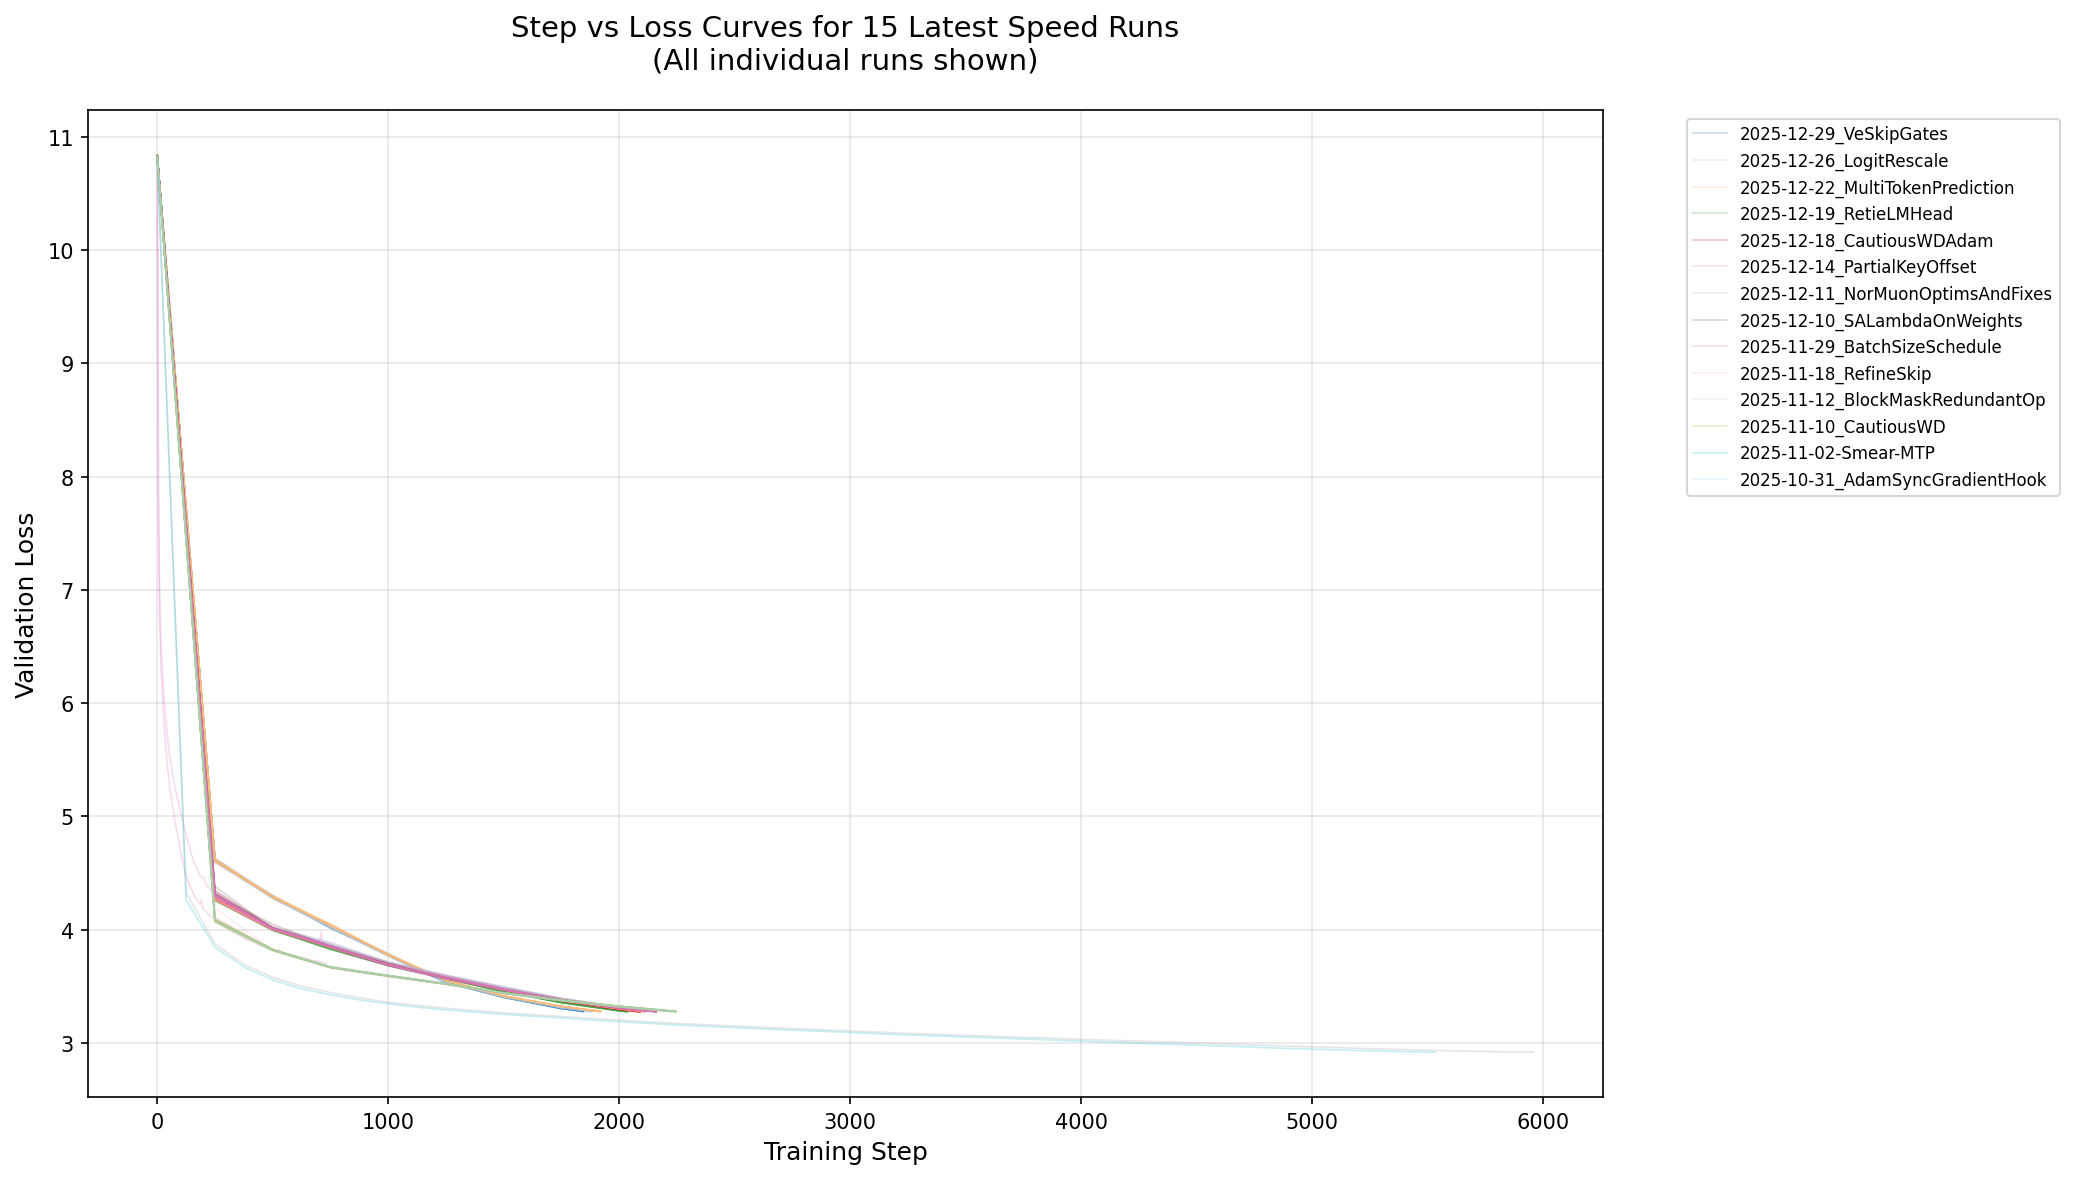
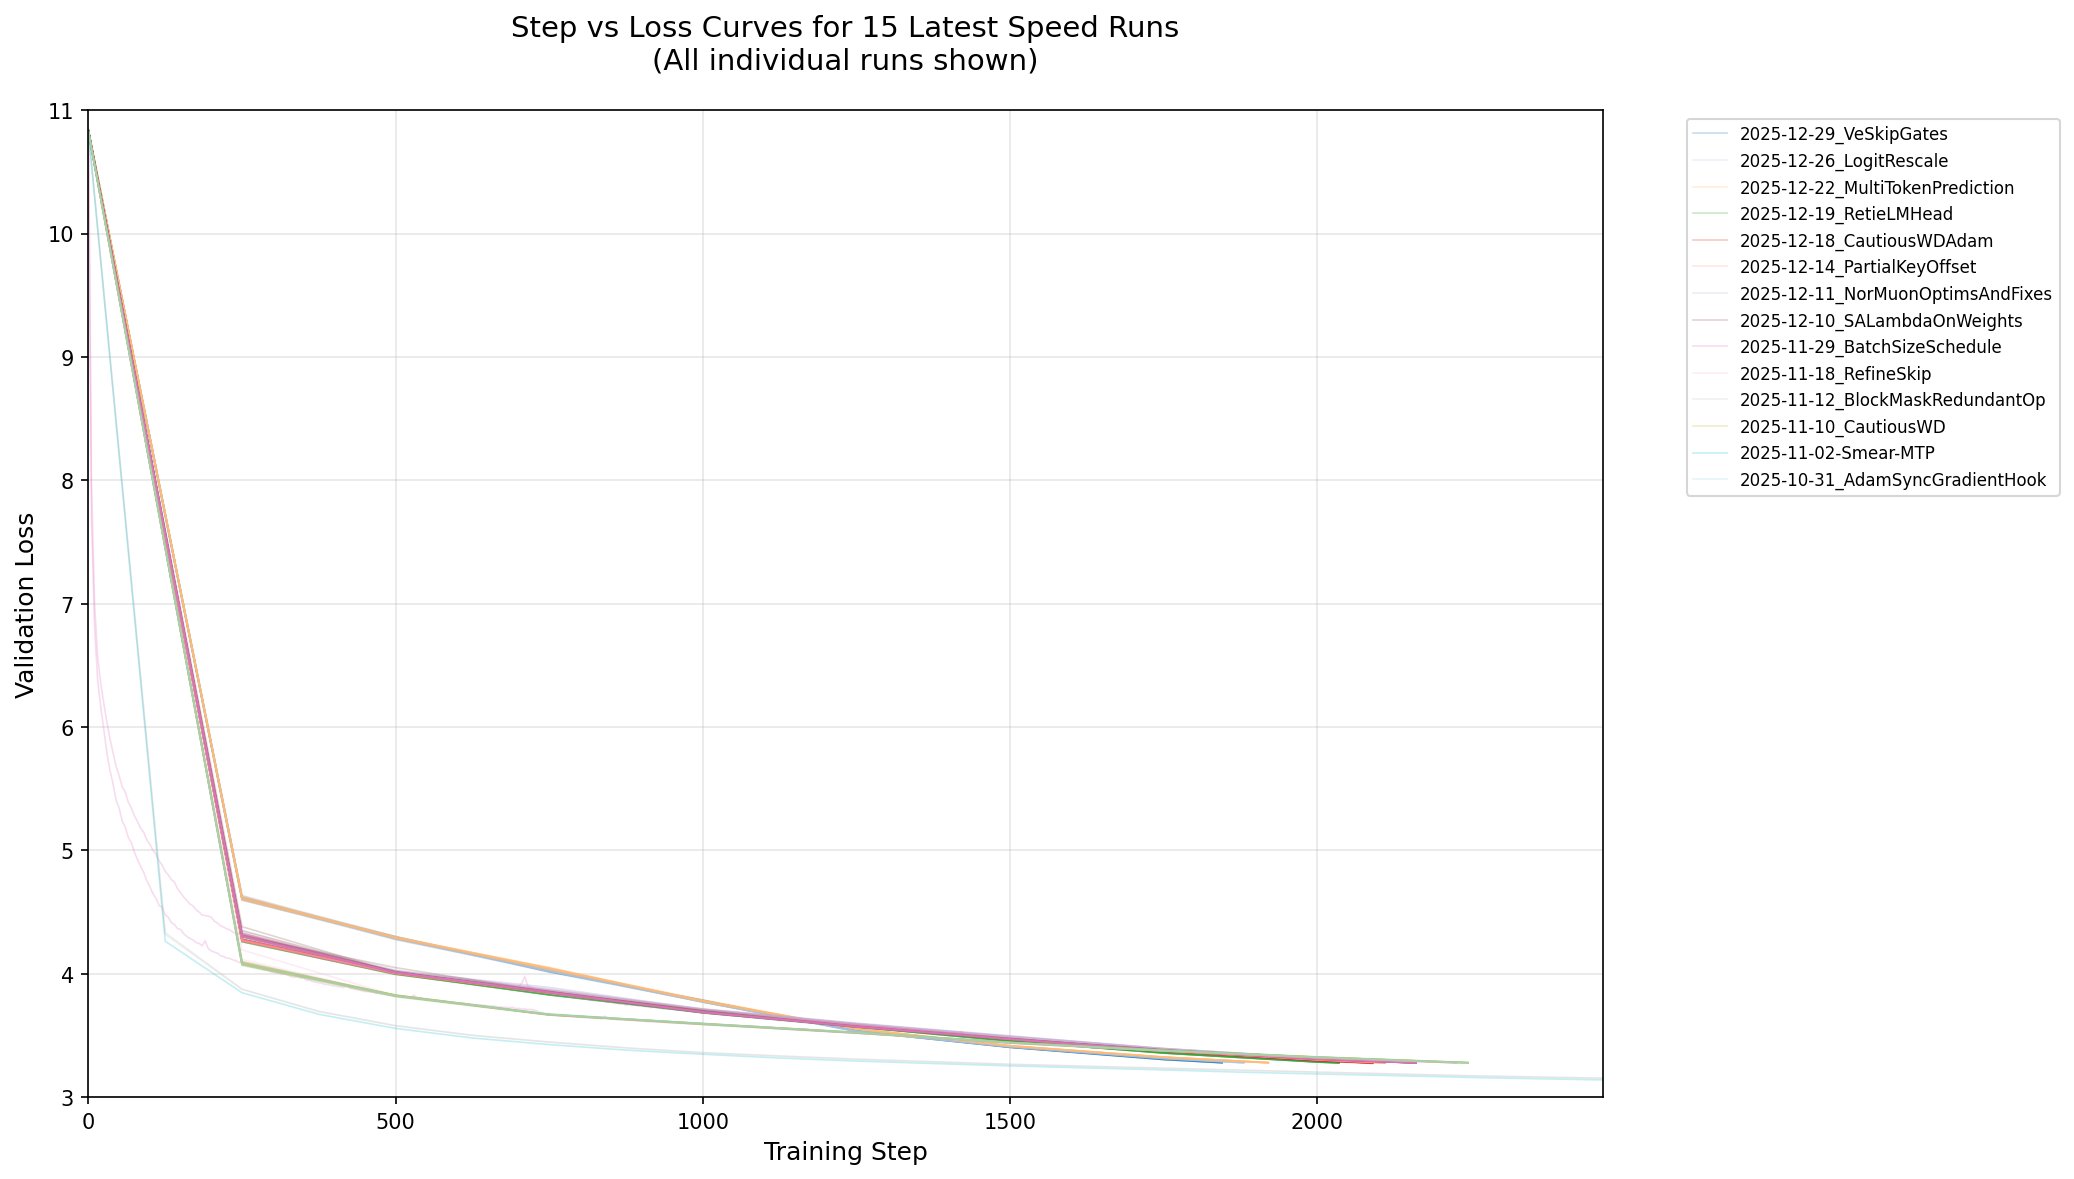
Crop full plot to focus on typical speedruns (remove outliers)

diff --git a/analyze_speedruns.py b/analyze_speedruns.py
@@ -152,6 +152,11 @@ def main():
                  fontsize=14, pad=20)
     ax.legend(bbox_to_anchor=(1.05, 1), loc='upper left', fontsize=8)
     ax.grid(True, alpha=0.3)
+    # Limit x-axis to focus on typical speedruns (ignore very long outliers)
+    final_steps_per_speedrun_full = df.groupby('speedrun')['step'].max()
+    typical_max_step_full = final_steps_per_speedrun_full.quantile(0.75)
+    ax.set_xlim(0, typical_max_step_full * 1.1)
+    ax.set_ylim(3.0, 11)
 
     plt.tight_layout()
     output_plot = "/home/user/modded-nanogpt/speedrun_plot.png"
